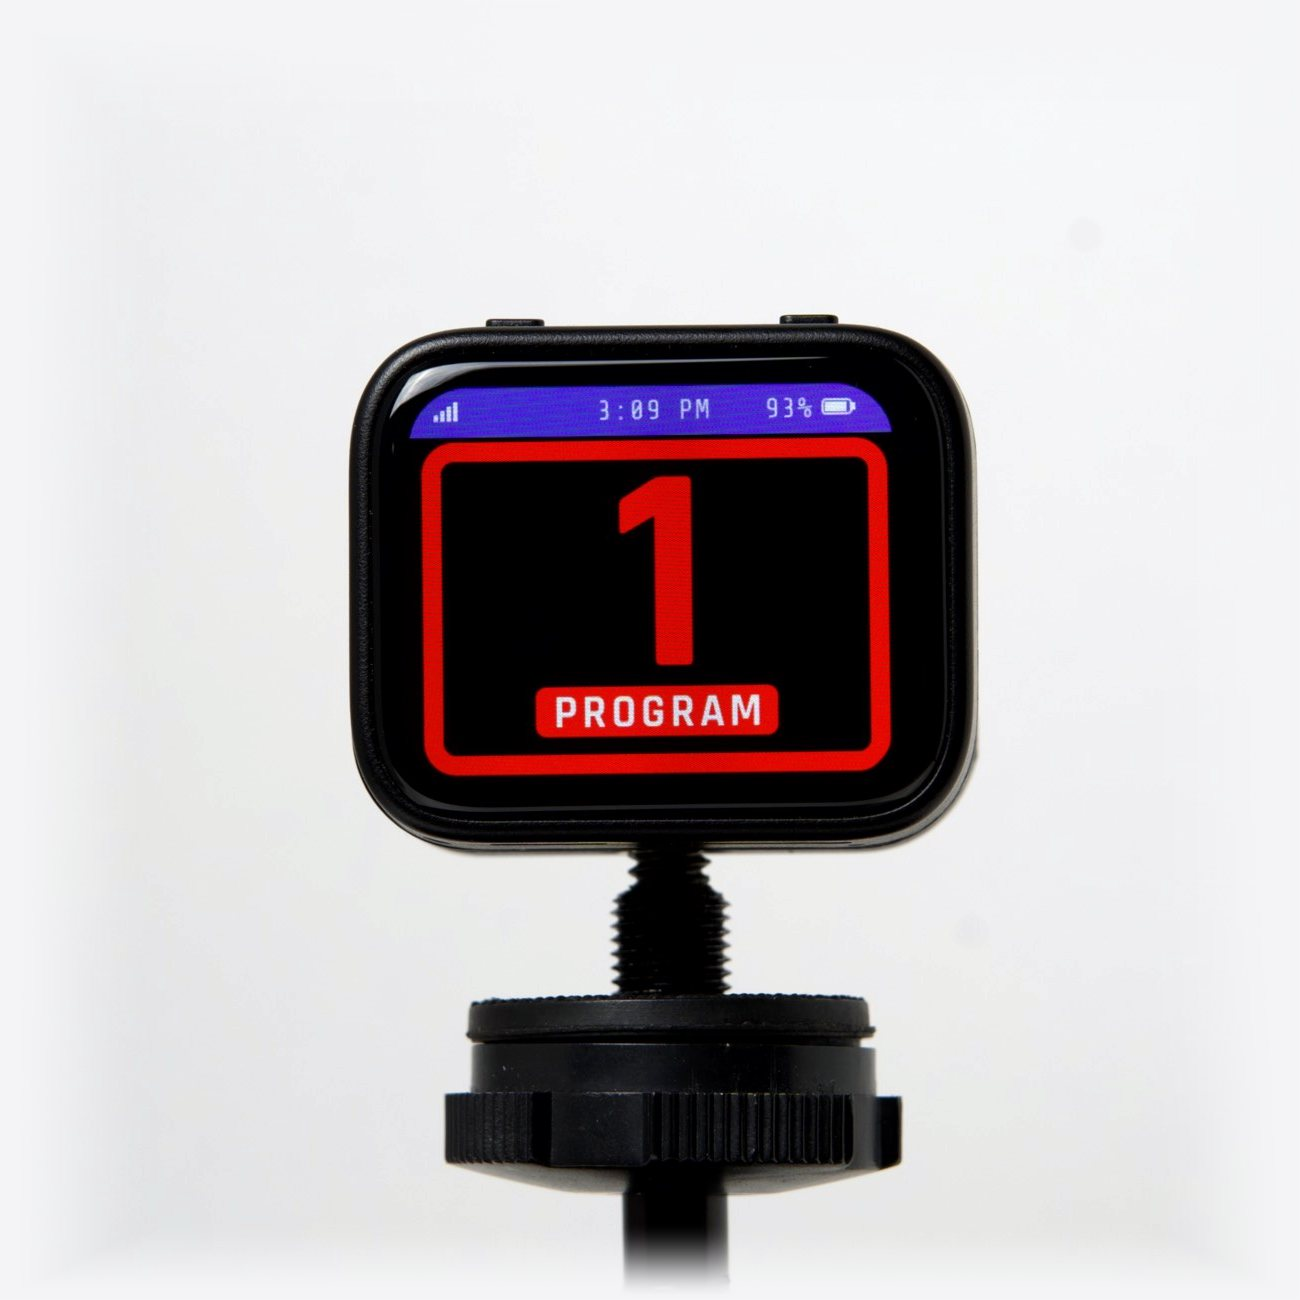
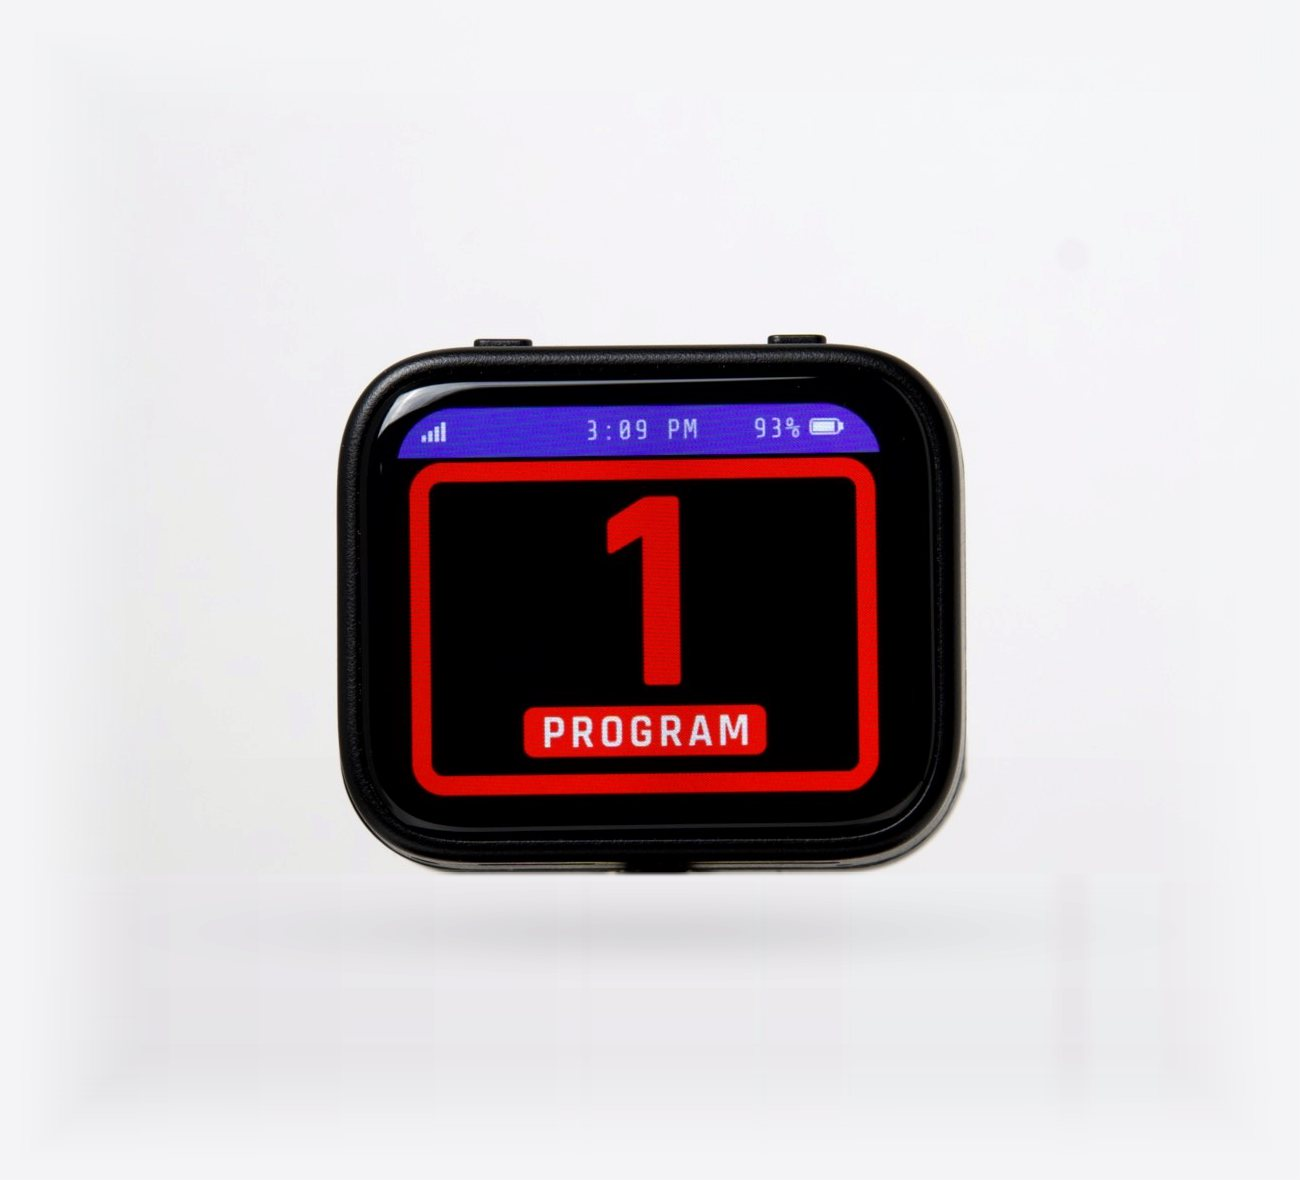
Cue Lite photo without the stand

Changed region(s): [[0.2462, 0.2441, 0.7692, 1.0]]

diff --git a/index.html b/index.html
@@ -75,7 +75,7 @@
     <p class="tag">The camera's light.</p>
     <p class="price">$99</p>
     <div class="links"><a class="more" href="#compare">Learn more</a><a class="more" data-buy="lite" href="#signup">Pre-order</a></div>
-    <div class="art photo"><img src="/static/photos/lite.jpg" alt="A Cue Lite on a shoe mount, showing camera 1 in red with PROGRAM" width="1300" height="1300"></div>
+    <div class="art photo"><img src="/static/photos/lite.jpg" alt="A Cue Lite showing camera 1 in red with PROGRAM" width="1300" height="1180"></div>
   </article>
   <article class="t dark" data-rise style="--i:1">
     <h2>Cue 360</h2>
